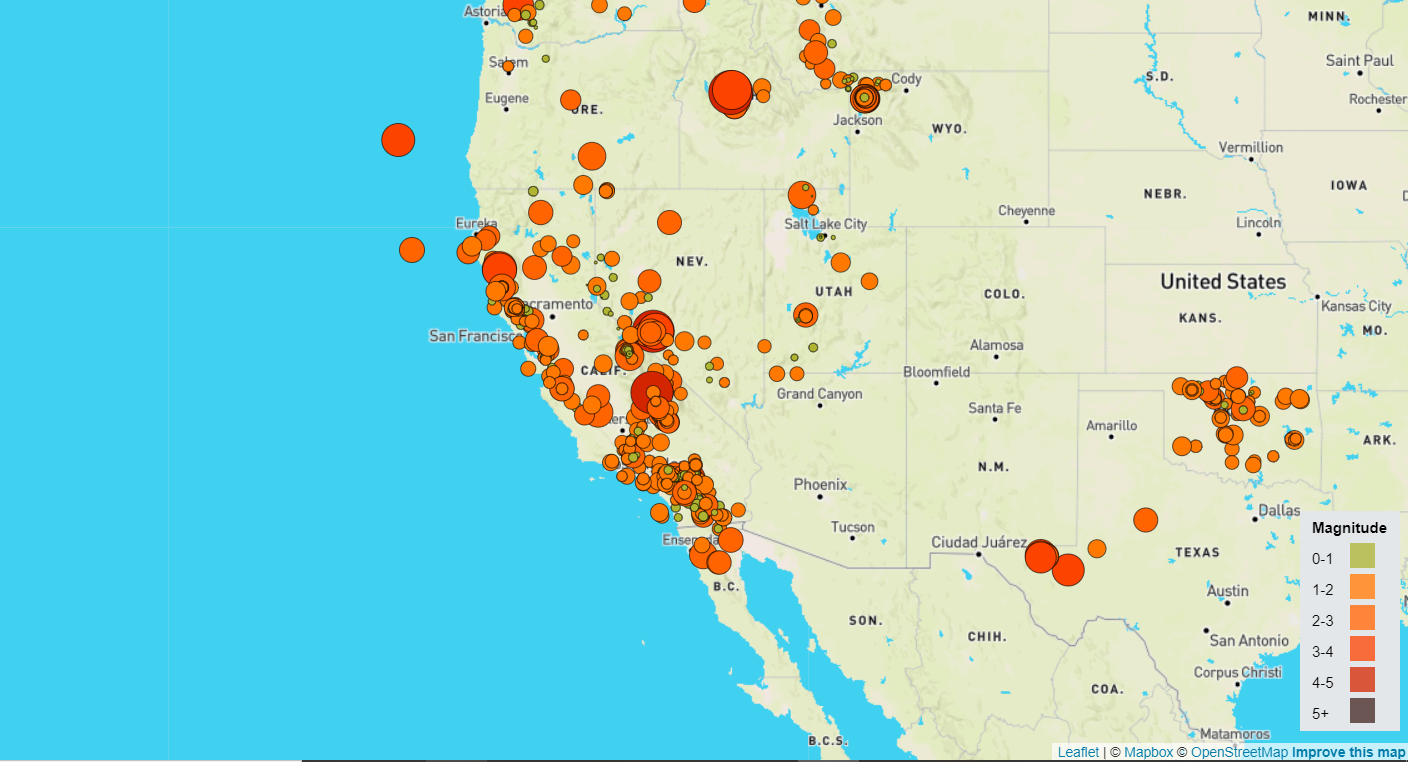
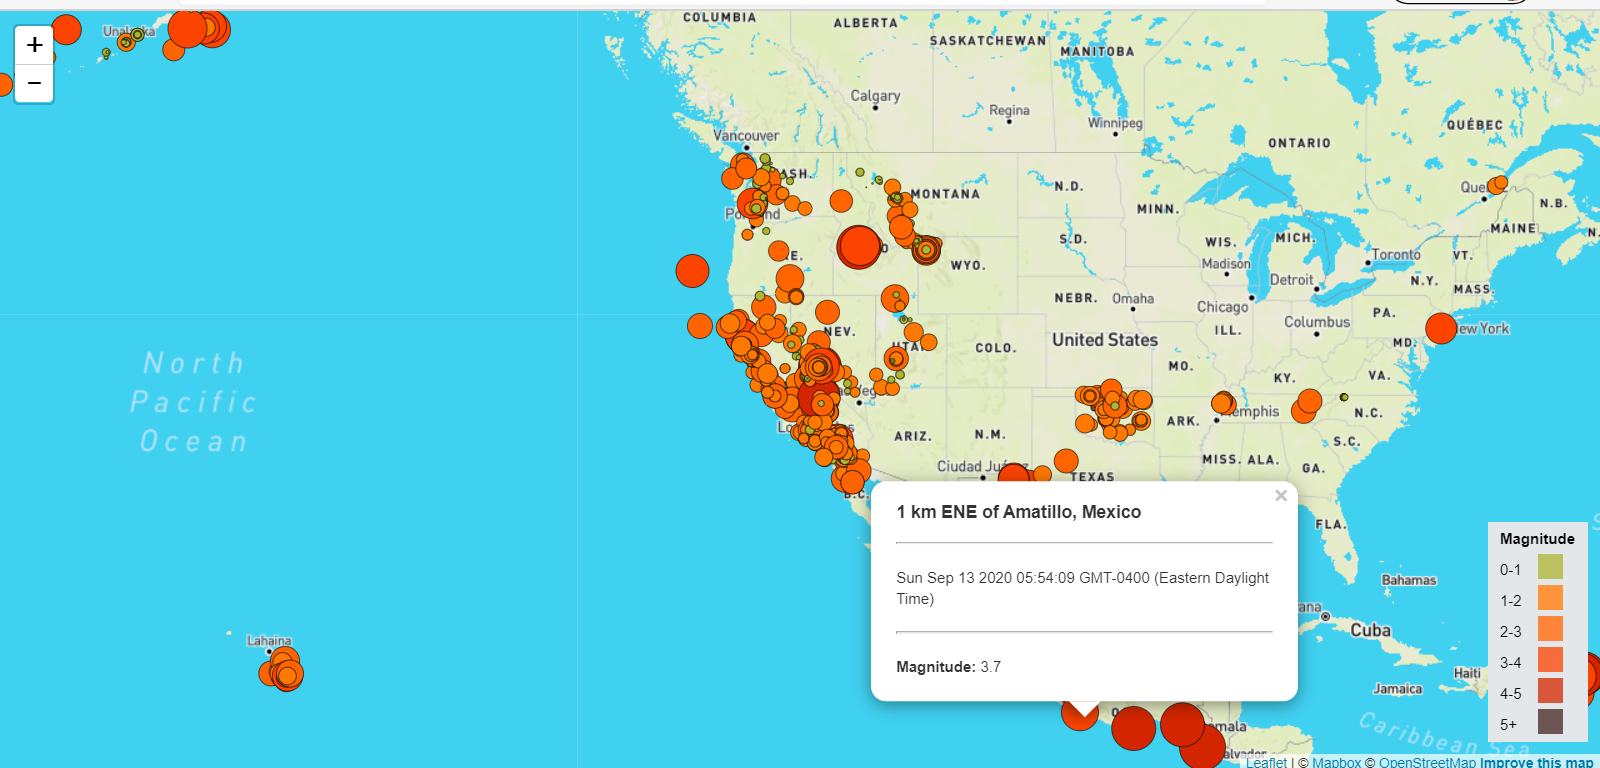
updating zoom and updating image

diff --git a/static/js/logic.js b/static/js/logic.js
@@ -1,7 +1,7 @@
 // Create intial map object
 var myMap = L.map("map", {
   center: [36.77, -119.41],
-  zoom: 5
+  zoom: 4
   });
 
 // Adding street map layer
